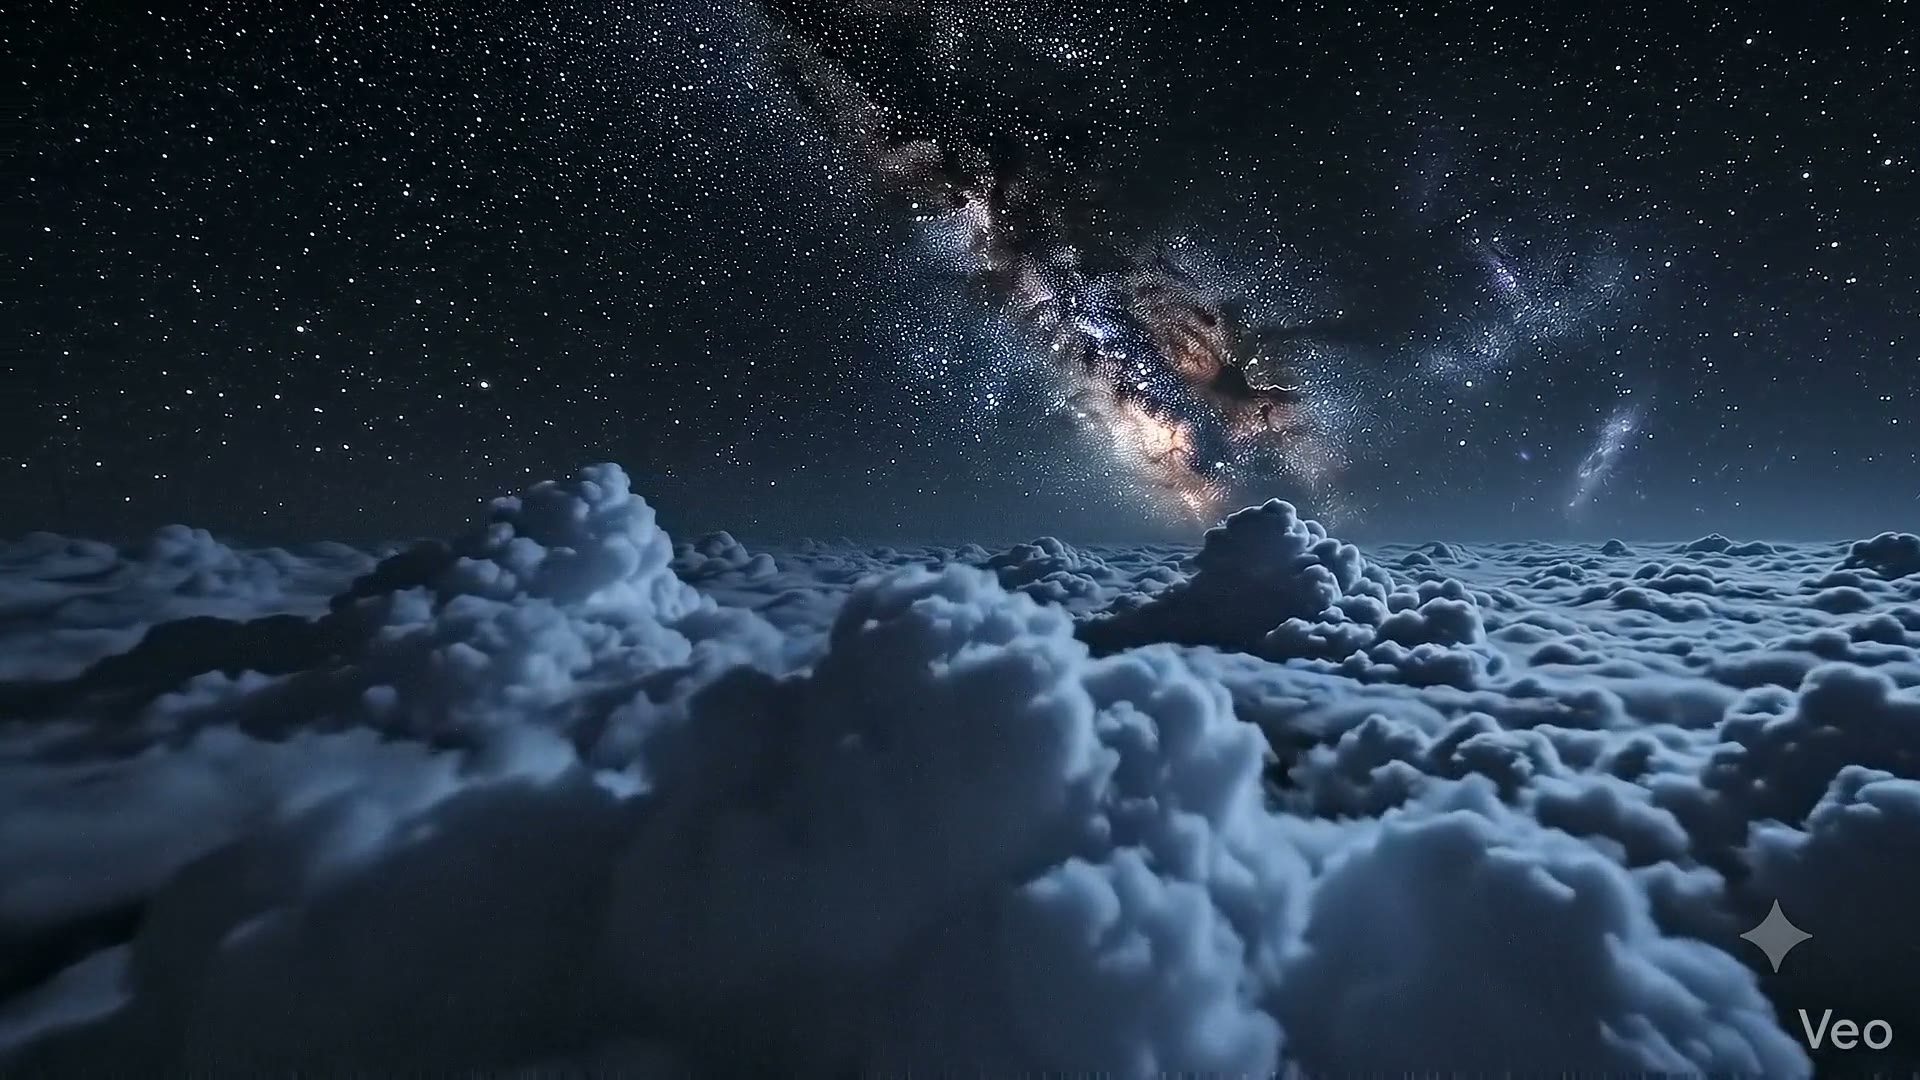
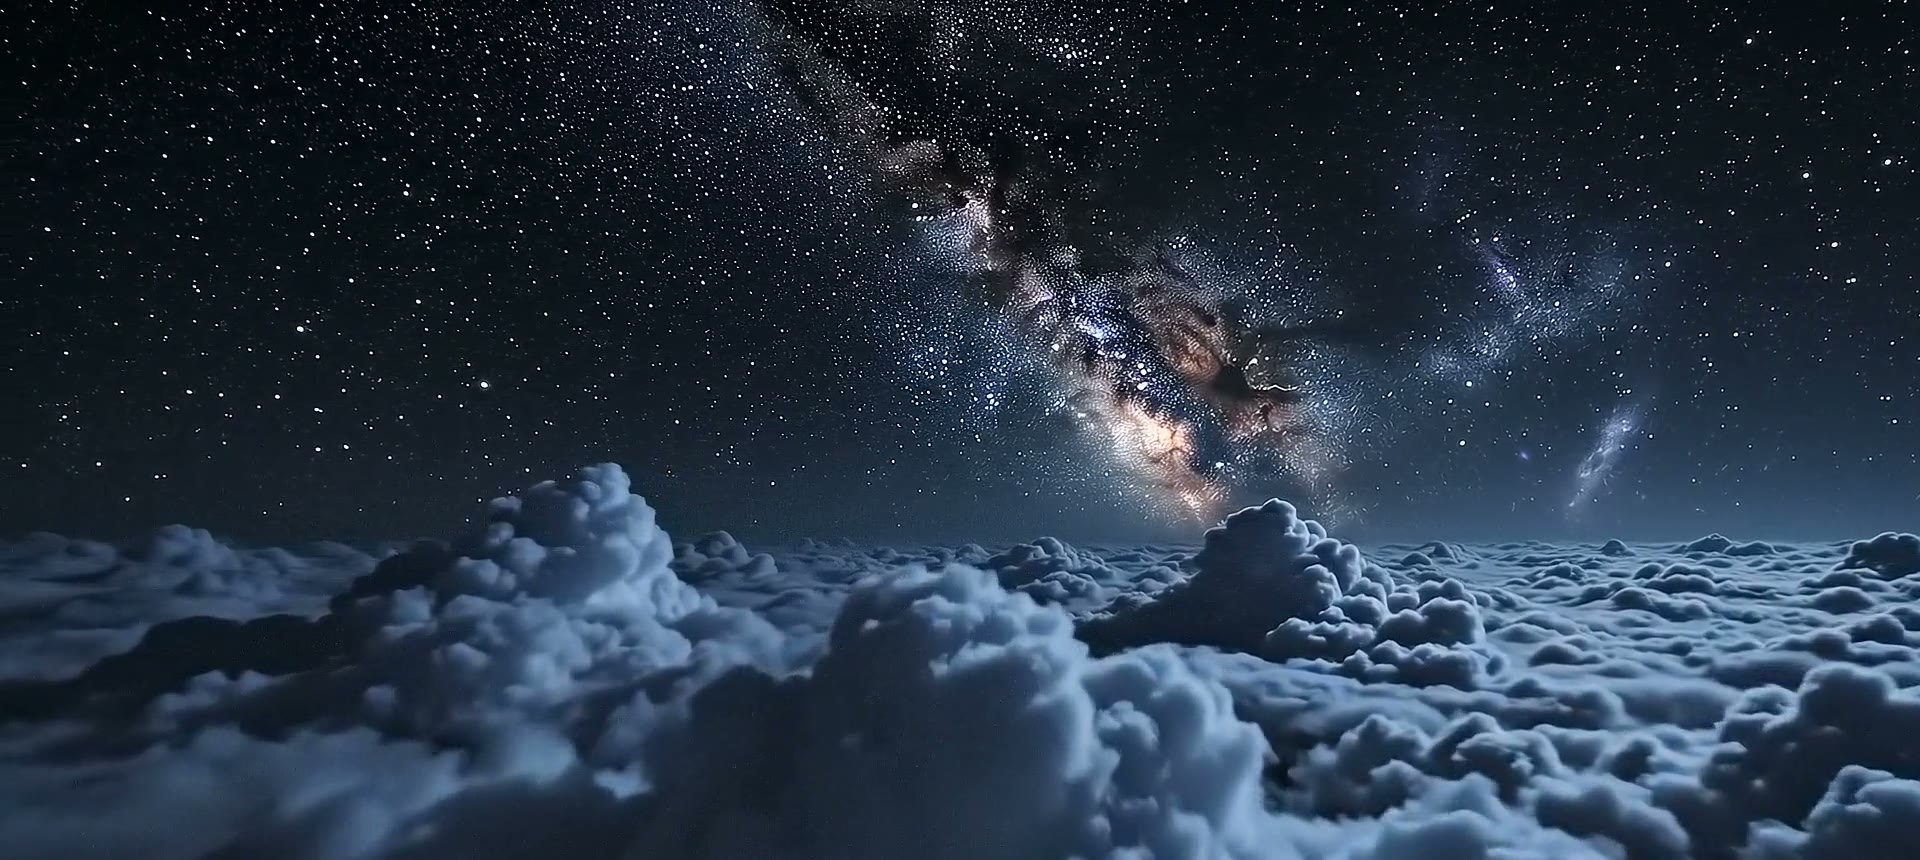
Serif huisstijl (Playfair Display), offerte-sectie herzien, hero-assets geoptimaliseerd
- Kopfont over alle paginas en site.css van Space Grotesk naar Playfair Display
- Offerte-sectie verplaatst naar boven en copy herschreven
- hero-clouds.mp4 en hero-poster.jpg gecomprimeerd (kleinere bestanden)

diff --git a/index.html b/index.html
@@ -63,7 +63,7 @@
 </script>
 <link rel="preconnect" href="https://fonts.googleapis.com">
 <link rel="preconnect" href="https://fonts.gstatic.com" crossorigin>
-<link href="https://fonts.googleapis.com/css2?family=Space+Grotesk:wght@300;400;500;600;700&family=Inter:wght@300;400;500;600;700&family=Playfair+Display:wght@700;800&display=swap" rel="stylesheet">
+<link href="https://fonts.googleapis.com/css2?family=Inter:wght@300;400;500;600;700&family=Playfair+Display:wght@500;600;700;800&display=swap" rel="stylesheet">
 <link href="https://fonts.googleapis.com/css2?family=Material+Symbols+Outlined:wght,FILL@100..700,0..1&display=swap" rel="stylesheet">
 <style>
 *,*::before,*::after{box-sizing:border-box;margin:0;padding:0}
@@ -76,7 +76,7 @@
   --text:#dae2fd;--muted:rgba(218,226,253,.55);--muted2:rgba(218,226,253,.28);
   --border:rgba(255,255,255,.08);--card:rgba(23,31,51,.4);
   --blur:16px;--r:6px;
-  --font-h:'Space Grotesk',sans-serif;--font-b:'Inter',sans-serif;
+  --font-h:'Playfair Display',Georgia,serif;--font-b:'Inter',sans-serif;
 }
 html{scroll-behavior:smooth;background:#060e20}
 body{background:#060e20;color:var(--text);font-family:var(--font-b);line-height:1.6;overflow-x:hidden;cursor:none;-webkit-font-smoothing:antialiased}
@@ -412,6 +412,19 @@ body.light .va-content::before{background:linear-gradient(to top,rgba(240,244,25
 <!-- MARQUEE -->
 <div class="marque-wrap"><div class="marque-track" id="marque"></div></div>
 
+<!-- OFFERTE -->
+<section id="offerte" class="section" style="background:rgba(11,19,38,.3)">
+  <div class="container" style="text-align:center;max-width:860px">
+    <div class="reveal">
+      <span class="sec-label" data-nl="[ OFFERTE ]" data-en="[ QUOTE ]">[ OFFERTE ]</span>
+      <h2 class="sec-title" style="margin:0 auto 18px;font-size:clamp(2.2rem,4.5vw,3.4rem)" data-nl="Website of app <span class='grad-text'>laten maken</span>" data-en="Have a website or app <span class='grad-text'>built</span>">Website of app <span class="grad-text">laten maken</span></h2>
+      <p class="sec-sub" style="max-width:720px;margin:0 auto 18px;font-size:1.2rem;line-height:1.85" data-nl="Bij Verso Development laat je een professionele en snelle website op maat bouwen. We houden rekening met jouw wensen en zorgen voor een schaalbare, unieke website die goed vindbaar is in Google." data-en="At Verso Development you get a professional, fast website built to measure. We take your wishes into account and deliver a scalable, unique website that ranks well on Google.">Bij Verso Development laat je een professionele en snelle website op maat bouwen. We houden rekening met jouw wensen en zorgen voor een schaalbare, unieke website die goed vindbaar is in Google.</p>
+      <p class="sec-sub" style="max-width:720px;margin:0 auto 40px;font-size:1.2rem;line-height:1.85" data-nl="We gebruiken geen WordPress of andere kant-en-klare platforms, maar schrijven alles zelf in code en zetten AI-tools in om je website of app nog krachtiger te maken. Dat geeft ons volledige vrijheid om te bouwen wat jij nodig hebt, zonder beperkingen in de mogelijkheden. Een complexe API, AI-integraties of een eigen portaal? Voor ons is niets onmogelijk. Vraag vrijblijvend een offerte aan en wie weet heb jij binnenkort de website waar je altijd van hebt gedroomd." data-en="We don't use WordPress or other off-the-shelf platforms. We write everything in code and apply AI tools to make your website or app even more powerful. That gives us complete freedom to build exactly what you need, with no limits on what's possible. A complex API, AI integrations or your own portal? For us, nothing is impossible. Request a free quote, and who knows, you might soon have the website you've always dreamed of.">We gebruiken geen WordPress of andere kant-en-klare platforms, maar schrijven alles zelf in code en zetten AI-tools in om je website of app nog krachtiger te maken. Dat geeft ons volledige vrijheid om te bouwen wat jij nodig hebt, zonder beperkingen in de mogelijkheden. Een complexe API, AI-integraties of een eigen portaal? Voor ons is niets onmogelijk. Vraag vrijblijvend een offerte aan en wie weet heb jij binnenkort de website waar je altijd van hebt gedroomd.</p>
+      <a href="aanvragen.html" class="btn btn-primary magnetic" style="font-size:1.05rem;padding:17px 40px" data-nl="Offerte aanvragen →" data-en="Request a quote →">Offerte aanvragen →</a>
+    </div>
+  </div>
+</section>
+
 <!-- DIENSTEN -->
 <section id="diensten" class="section">
   <div class="container">
@@ -471,19 +484,6 @@ body.light .va-content::before{background:linear-gradient(to top,rgba(240,244,25
           <span class="va-cta"><span data-nl="Bespreek je project" data-en="Discuss your project">Bespreek je project</span> <svg width="16" height="16" viewBox="0 0 24 24" fill="none" stroke="currentColor" stroke-width="2" stroke-linecap="round" stroke-linejoin="round"><line x1="5" y1="12" x2="19" y2="12"/><polyline points="12 5 19 12 12 19"/></svg></span>
         </a>
       </div>
-    </div>
-  </div>
-</section>
-
-<!-- OFFERTE -->
-<section id="offerte" class="section" style="background:rgba(11,19,38,.3)">
-  <div class="container" style="text-align:center;max-width:780px">
-    <div class="reveal">
-      <span class="sec-label" data-nl="[ OFFERTE ]" data-en="[ QUOTE ]">[ OFFERTE ]</span>
-      <h2 class="sec-title" style="margin:0 auto 14px" data-nl="Een website laten maken <span class='grad-text'>vanaf €399</span>" data-en="A website built <span class='grad-text'>from €399</span>">Een website laten maken <span class="grad-text">vanaf €399</span></h2>
-      <p class="sec-sub" style="max-width:640px;margin:0 auto 16px" data-nl="Bij Verso Development laat je een professionele, snelle website op maat bouwen vanaf €399. De eerste maand hosting is helemaal gratis, zodat je zonder zorgen live gaat." data-en="At Verso Development you get a professional, fast custom website from €399. Your first month of hosting is completely free, so you can launch worry-free.">Bij Verso Development laat je een professionele, snelle website op maat bouwen vanaf €399. De eerste maand hosting is helemaal gratis, zodat je zonder zorgen live gaat.</p>
-      <p class="sec-sub" style="max-width:640px;margin:0 auto 36px" data-nl="Liever niet alles in één keer betalen? Dat hoeft niet, je kunt de investering ook gespreid per maand betalen. Vraag vrijblijvend een offerte aan en ik laat je zien wat er mogelijk is voor jouw bedrijf." data-en="Prefer not to pay everything at once? You don't have to, you can also spread the investment and pay monthly. Request a free quote and I'll show you what's possible for your business.">Liever niet alles in één keer betalen? Dat hoeft niet, je kunt de investering ook gespreid per maand betalen. Vraag vrijblijvend een offerte aan en ik laat je zien wat er mogelijk is voor jouw bedrijf.</p>
-      <a href="aanvragen.html" class="btn btn-primary magnetic" style="font-size:1rem;padding:16px 36px" data-nl="Offerte aanvragen →" data-en="Request a quote →">Offerte aanvragen →</a>
     </div>
   </div>
 </section>

diff --git a/aanvragen.html b/aanvragen.html
@@ -18,7 +18,7 @@
   <meta name="twitter:card" content="summary">
   <link rel="preconnect" href="https://fonts.googleapis.com">
   <link rel="preconnect" href="https://fonts.gstatic.com" crossorigin>
-  <link href="https://fonts.googleapis.com/css2?family=Space+Grotesk:wght@400;500;600;700&family=Inter:wght@300;400;500;600&display=swap" rel="stylesheet">
+  <link href="https://fonts.googleapis.com/css2?family=Inter:wght@300;400;500;600&family=Playfair+Display:wght@500;600;700;800&display=swap" rel="stylesheet">
   <style>
     *, *::before, *::after { box-sizing: border-box; margin: 0; padding: 0; }
 
@@ -37,7 +37,7 @@
       --aqua:      #60A5FA;
       --grad:      linear-gradient(135deg, #c0c1ff 0%, #60A5FA 100%);
       --glow:      rgba(192,193,255,0.25);
-      --font-h:    'Space Grotesk', -apple-system, sans-serif;
+      --font-h:    'Playfair Display', Georgia, serif;
       --font-b:    'Inter', -apple-system, sans-serif;
       --r:         14px;
     }

diff --git a/ai-integraties/index.html b/ai-integraties/index.html
@@ -76,7 +76,7 @@
 
 <link rel="preconnect" href="https://fonts.googleapis.com">
 <link rel="preconnect" href="https://fonts.gstatic.com" crossorigin>
-<link href="https://fonts.googleapis.com/css2?family=Space+Grotesk:wght@300;400;500;600;700&family=Inter:wght@300;400;500;600;700&display=swap" rel="stylesheet">
+<link href="https://fonts.googleapis.com/css2?family=Inter:wght@300;400;500;600;700&family=Playfair+Display:wght@500;600;700;800&display=swap" rel="stylesheet">
 <link rel="stylesheet" href="/assets/site.css">
 </head>
 <body>

diff --git a/assets/site.css b/assets/site.css
@@ -12,7 +12,7 @@
   --text:#dae2fd;--muted:rgba(218,226,253,.55);--muted2:rgba(218,226,253,.28);
   --border:rgba(255,255,255,.08);--card:rgba(23,31,51,.4);
   --blur:16px;--r:6px;
-  --font-h:'Space Grotesk',sans-serif;--font-b:'Inter',sans-serif;
+  --font-h:'Playfair Display',Georgia,serif;--font-b:'Inter',sans-serif;
 }
 html{scroll-behavior:smooth;background:#060e20}
 body{background:#060e20;color:var(--text);font-family:var(--font-b);line-height:1.6;overflow-x:hidden;cursor:none;-webkit-font-smoothing:antialiased}

diff --git a/webdesign-breda/index.html b/webdesign-breda/index.html
@@ -86,7 +86,7 @@
 
 <link rel="preconnect" href="https://fonts.googleapis.com">
 <link rel="preconnect" href="https://fonts.gstatic.com" crossorigin>
-<link href="https://fonts.googleapis.com/css2?family=Space+Grotesk:wght@300;400;500;600;700&family=Inter:wght@300;400;500;600;700&display=swap" rel="stylesheet">
+<link href="https://fonts.googleapis.com/css2?family=Inter:wght@300;400;500;600;700&family=Playfair+Display:wght@500;600;700;800&display=swap" rel="stylesheet">
 <link rel="stylesheet" href="/assets/site.css">
 </head>
 <body>

diff --git a/website-laten-maken/index.html b/website-laten-maken/index.html
@@ -81,7 +81,7 @@
 
 <link rel="preconnect" href="https://fonts.googleapis.com">
 <link rel="preconnect" href="https://fonts.gstatic.com" crossorigin>
-<link href="https://fonts.googleapis.com/css2?family=Space+Grotesk:wght@300;400;500;600;700&family=Inter:wght@300;400;500;600;700&display=swap" rel="stylesheet">
+<link href="https://fonts.googleapis.com/css2?family=Inter:wght@300;400;500;600;700&family=Playfair+Display:wght@500;600;700;800&display=swap" rel="stylesheet">
 <link rel="stylesheet" href="/assets/site.css">
 </head>
 <body>